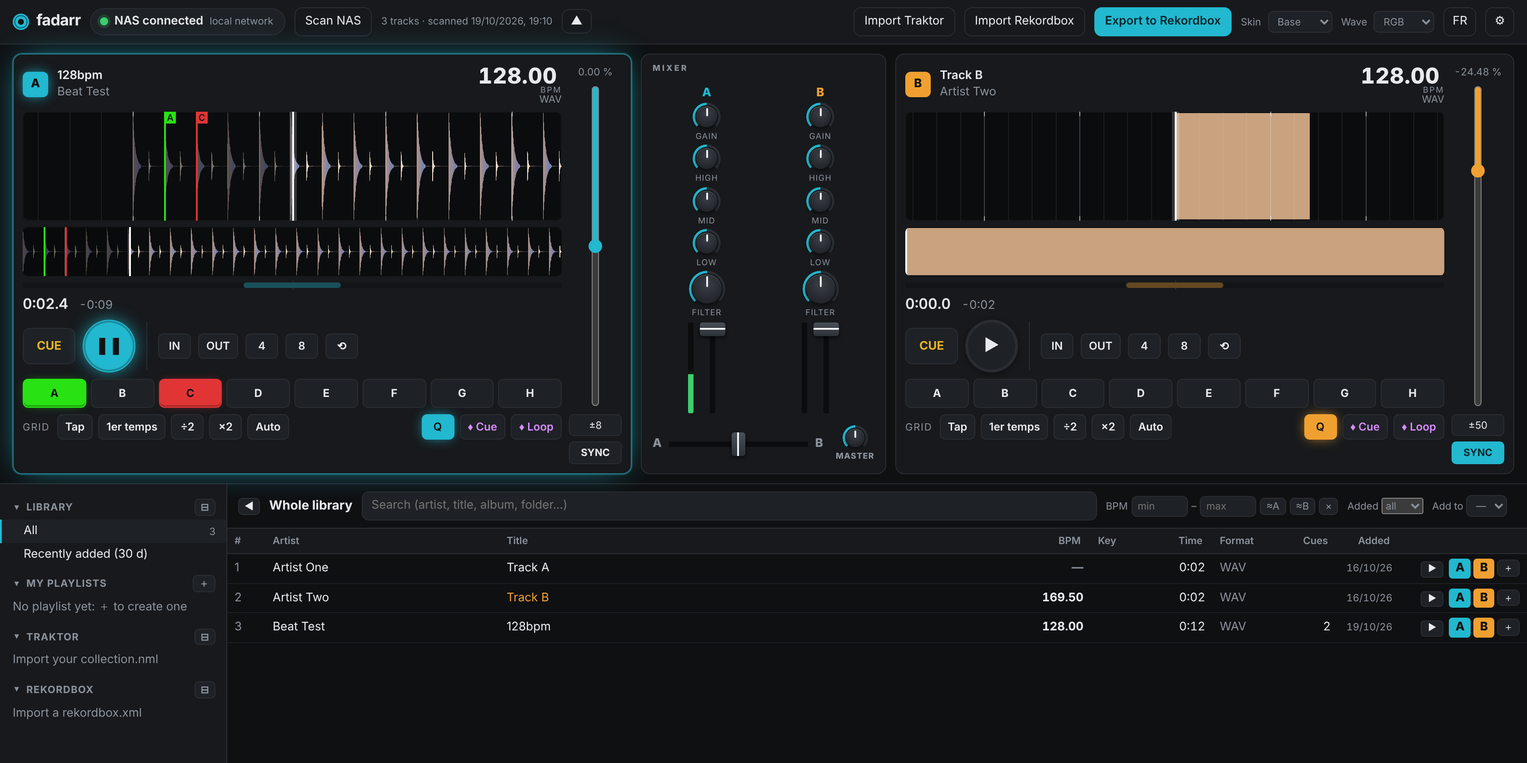
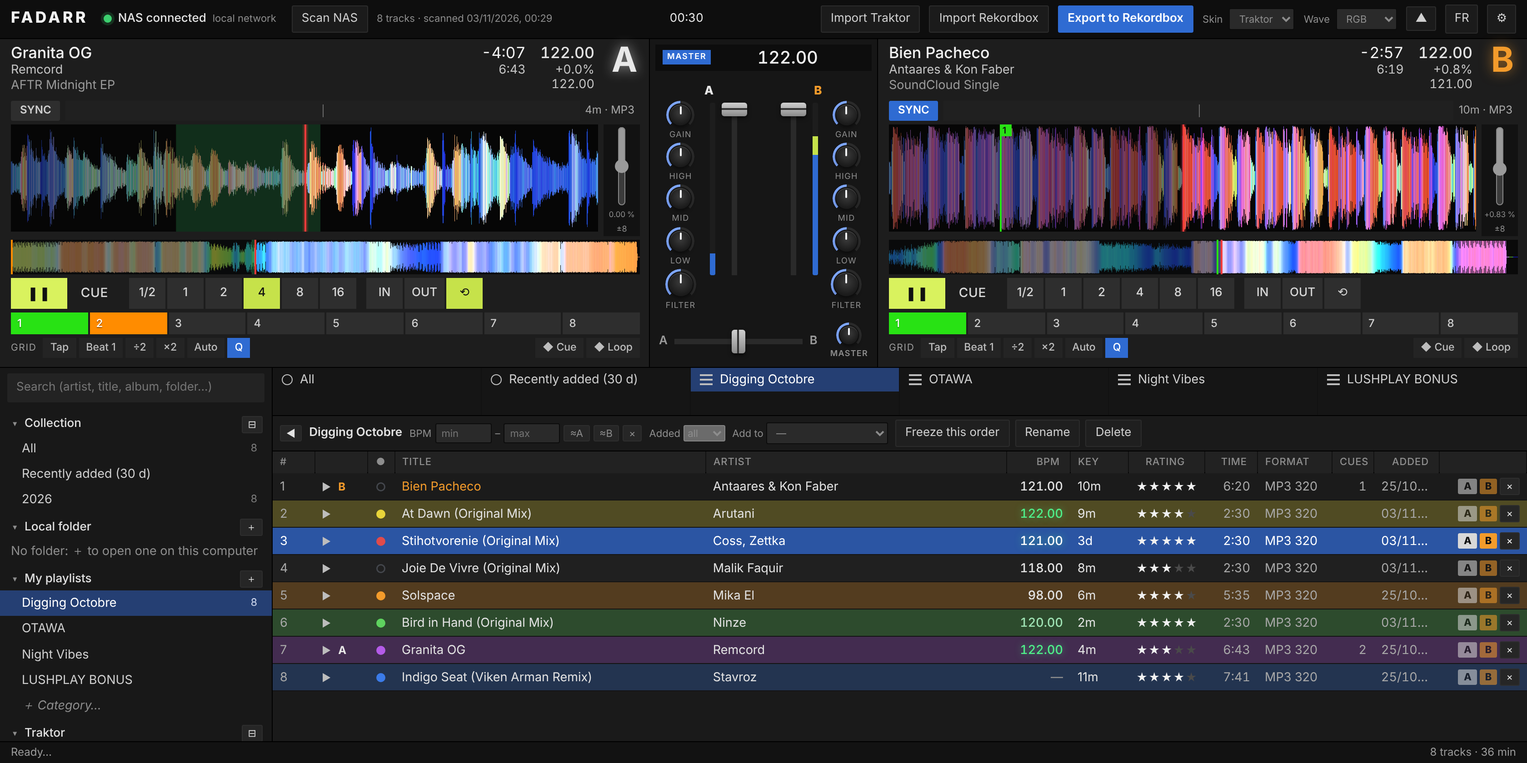
v0.9.0 — Dossier local (en plus du NAS) + README et capture à jour
Claude-Session: https://claude.ai/code/session_01JRhxjUwib51qu579Lakuy5

diff --git a/public/app.js b/public/app.js
@@ -217,18 +217,25 @@
       this.status(t('Chargement…'));
       this.renderInfo();
       try {
-        const [full, res] = await Promise.all([
-          api('GET', `/api/track?path=${encodeURIComponent(track.path)}`),
-          fetch(`/api/audio?path=${encodeURIComponent(track.path)}`, { headers: { 'X-Lang': window.I18N.lang } })
-        ]);
-        if (!res.ok) { let msg = `Erreur ${res.status}`; try { msg = (await res.json()).error || msg; } catch (e) { /* texte */ } throw new Error(msg); }
-        const data = await res.arrayBuffer();
+        let full, data;
+        if (local.isLocal(track.path)) { // dossier de cet ordinateur : lu directement dans le navigateur
+          full = local.full(track.path);
+          data = await local.arrayBuffer(track.path);
+        } else {
+          const [fullR, res] = await Promise.all([
+            api('GET', `/api/track?path=${encodeURIComponent(track.path)}`),
+            fetch(`/api/audio?path=${encodeURIComponent(track.path)}`, { headers: { 'X-Lang': window.I18N.lang } })
+          ]);
+          if (!res.ok) { let msg = `Erreur ${res.status}`; try { msg = (await res.json()).error || msg; } catch (e) { /* texte */ } throw new Error(msg); }
+          full = fullR; data = await res.arrayBuffer();
+        }
         if (token !== this.loading) return;
         this.status(t('Décodage…'));
         const buf = await ctx.decodeAudioData(data);
         if (token !== this.loading) return;
         this.track = full;
         this.buffer = buf;
+        if (local.isLocal(full.path) && !full.duration) { full.duration = buf.duration; local.patch(full.path, { duration: Math.round(buf.duration) }); library.paintWindow(); }
         this.cues = full.cues || [];
         const firstHot = this.cues.find((c) => c.kind !== 'loop' && c.kind === 'memory') || null;
         this.mainCue = firstHot ? firstHot.start : 0;
@@ -335,7 +342,8 @@
         restore();
         if (path && Number.isFinite(v) && v >= 40 && v <= 250) {
           try {
-            await api('PUT', '/api/track/meta', { path, bpm: v });
+            if (local.isLocal(path)) local.patch(path, { bpm: Math.round(v * 100) / 100 });
+            else await api('PUT', '/api/track/meta', { path, bpm: v });
             if (this.track && this.track.path === path) { this.track.bpm = Math.round(v * 100) / 100; this.renderInfo(); }
             library.updateBpm(path, Math.round(v * 100) / 100);
             if (refDeck === this) library.renderRows();
@@ -354,7 +362,8 @@
       if (!this.track) return;
       const path = this.track.path;
       try {
-        await api('PUT', '/api/track/meta', { path, ...patch, ...(auto ? { auto: true } : {}) });
+        if (local.isLocal(path)) local.patch(path, patch);
+        else await api('PUT', '/api/track/meta', { path, ...patch, ...(auto ? { auto: true } : {}) });
         if (this.track && this.track.path === path) {
           if (patch.bpm != null) this.track.bpm = Math.round(patch.bpm * 100) / 100;
           if ('gridStart' in patch) this.track.gridStart = patch.gridStart;
@@ -481,6 +490,7 @@
       this.renderPads(); this.renderMem();
       if (!this.track) return;
       const path = this.track.path;
+      if (local.isLocal(path)) { local.patch(path, { cues: this.cues }); library.updateCount(path, this.cues.length); return; }
       clearTimeout(this.saveTimer);
       this.saveTimer = setTimeout(async () => {
         try {
@@ -1385,7 +1395,7 @@
     },
 
     markSel() {
-      const key = this.view.type === 'all' ? 'all' : this.view.type === 'recent' ? 'recent' : this.view.type === 'folder' ? `folder:${this.view.path}` : `pl:${this.view.id}`;
+      const key = this.view.type === 'all' ? 'all' : this.view.type === 'recent' ? 'recent' : this.view.type === 'folder' ? `folder:${this.view.path}` : this.view.type === 'local' ? `localv:${this.view.path}` : `pl:${this.view.id}`;
       $$('.node[data-key]').forEach((n) => n.classList.toggle('sel', n.dataset.key === key));
       this._curKey = key; this.renderFavs();
       this.revealSel(key);
@@ -1422,6 +1432,10 @@
             await api('DELETE', `/api/playlists/${p.id}`); await this.loadPlaylists(); this.show({ type: 'all' });
           }));
         }
+      } else if (view.type === 'local') {
+        $('#list-title').textContent = view.path ? `${local.name} / ${view.path}` : t('{name} (sur cet ordinateur)', { name: local.name || t('Dossier local') });
+        this.rows = local.rows(view.path, q);
+        if (local.tracks.length) actions.appendChild(button(t('Fermer ce dossier'), () => local.close()));
       } else {
         $('#list-title').textContent = view.type === 'folder' ? view.path : view.type === 'recent' ? t('Ajouts récents (30 jours)') : t('Toute la bibliothèque');
         const params = new URLSearchParams({ q });
@@ -1494,7 +1508,7 @@
         + `<td class="dim">${esc(t.format || '')}${t.bitrate && !/WAV|AIFF|FLAC/i.test(t.format) ? ` ${t.bitrate}` : ''}</td><td class="r dim">${t.cueCount || ''}</td>`
         + `<td class="r dim" title="${t.added ? new Date(t.added).toLocaleString(window.I18N.locale) : ''}">${shortDate(t.added)}</td>`
         + `<td class="act">${t.missing ? `<span class="muted small">${T('absent du NAS')}</span>` : `<button type="button" class="ld a" data-l="A" title="${T('Charger dans A')}">A</button><button type="button" class="ld b" data-l="B" title="${T('Charger dans B')}">B</button>`}`
-        + `${this._editable ? `<button type="button" class="mini" data-x="1" title="${T('Retirer de la playlist')}">×</button>` : `<button type="button" class="mini" data-add="1" title="${T('Ajouter à la playlist choisie (« Ajouter à »)')}">＋</button>`}</td>`
+        + `${t.local ? '' : this._editable ? `<button type="button" class="mini" data-x="1" title="${T('Retirer de la playlist')}">×</button>` : `<button type="button" class="mini" data-add="1" title="${T('Ajouter à la playlist choisie (« Ajouter à »)')}">＋</button>`}</td>`
         + `<td class="vcls" hidden>${cls}</td>`;
     },
 
@@ -1635,6 +1649,7 @@
       tr.rating = rating;
       this.paintWindow();
       for (const d of Object.values(decks)) if (d.track && d.track.path === tr.path) { d.track.rating = rating; }
+      if (local.isLocal(tr.path)) { local.patch(tr.path, { rating }); return; }
       try { await api('PUT', '/api/track/meta', { path: tr.path, rating }); } catch (e) { toast(e.message, 'error'); }
     },
 
@@ -1643,6 +1658,7 @@
       tr.color = color;
       this.paintWindow();
       for (const d of Object.values(decks)) if (d.track && d.track.path === tr.path) { d.track.color = color; }
+      if (local.isLocal(tr.path)) { local.patch(tr.path, { color }); return; }
       try { await api('PUT', '/api/track/meta', { path: tr.path, color }); } catch (e) { toast(e.message, 'error'); }
     },
 
@@ -1659,6 +1675,11 @@
     openColorMenu(ev, tr) { contextMenu(ev, this.colorItems(tr)); },
 
     async addTo(id, paths) {
+      if (paths.some((p) => local.isLocal(p))) {
+        paths = paths.filter((p) => !local.isLocal(p));
+        toast(t('Un morceau d’un dossier local ne peut pas aller dans une playlist : il n’est pas sur le NAS.'), 'error');
+        if (!paths.length) return;
+      }
       try {
         const p = await api('GET', `/api/playlists/${id}`);
         const tracks = p.tracks.concat(paths.filter((x) => !p.tracks.includes(x)));
@@ -1672,13 +1693,122 @@
     updateCount(path, n) {
       const row = this.rows.find((r) => r.path === path); if (row) row.cueCount = n;
       const vr = (this._vrows || []).find((r) => r.path === path); if (vr) vr.cueCount = n;
-      const tr = $(`#tracks tr[data-path="${CSS.escape(path)}"] td:nth-child(8)`); if (tr) tr.textContent = n || '';
+      const tr = $(`#tracks tr[data-path="${CSS.escape(path)}"] td:nth-child(11)`); if (tr) tr.textContent = n || ''; // colonne Cues
     },
 
     updateBpm(path, bpm) {
       const row = this.rows.find((r) => r.path === path); if (row) row.bpm = bpm;
       const vr = (this._vrows || []).find((r) => r.path === path); if (vr) vr.bpm = bpm;
     }
+  };
+
+  // ===========================================================================
+  // DOSSIER LOCAL : jouer des morceaux d'un dossier de CET ordinateur, sans rien envoyer au serveur.
+  // Les fichiers sont lus dans le navigateur ; BPM, grille, cues, note et couleur sont gardés dans ce navigateur
+  // (localStorage), pas dans fadarr. Le NAS reste la bibliothèque principale.
+  // ===========================================================================
+  const LOCAL_AUDIO = /\.(mp3|wav|aiff?|flac|m4a|aac|ogg|opus)$/i;
+
+  /** AIFF -> WAV (mêmes échantillons, sans perte) : Chrome et Firefox ne décodent pas l'AIFF. Gère AIFF et AIFF-C non compressé. */
+  function aiffToWav(ab) {
+    const v = new DataView(ab);
+    const id = (o) => String.fromCharCode(v.getUint8(o), v.getUint8(o + 1), v.getUint8(o + 2), v.getUint8(o + 3));
+    if (id(0) !== 'FORM' || !['AIFF', 'AIFC'].includes(id(8))) throw new Error(window.I18N.t('Fichier AIFF illisible.'));
+    let ch = 0, frames = 0, bits = 0, rate = 0, little = false, data = -1;
+    for (let o = 12; o + 8 <= v.byteLength;) {
+      const cid = id(o); const size = v.getUint32(o + 4); const p = o + 8;
+      if (cid === 'COMM') {
+        ch = v.getUint16(p); frames = v.getUint32(p + 2); bits = v.getUint16(p + 6);
+        const exp = v.getUint16(p + 8) & 0x7fff; const hi = v.getUint32(p + 10); const lo = v.getUint32(p + 14);
+        rate = Math.round((hi * 4294967296 + lo) * Math.pow(2, exp - 16383 - 63));
+        if (id(8) === 'AIFC' && size >= 22) {
+          const comp = id(p + 18);
+          if (comp === 'sowt') little = true; else if (comp !== 'NONE' && comp !== 'twos') throw new Error(window.I18N.t('AIFF compressé non pris en charge ({c}).', { c: comp }));
+        }
+      } else if (cid === 'SSND') data = p + 8 + v.getUint32(p);
+      o = p + size + (size % 2);
+    }
+    if (!ch || !rate || data < 0 || ![8, 16, 24, 32].includes(bits)) throw new Error(window.I18N.t('Fichier AIFF illisible.'));
+    const bps = bits / 8; const len = Math.min(frames * ch * bps, v.byteLength - data);
+    const out = new ArrayBuffer(44 + len); const w = new DataView(out); const src = new Uint8Array(ab, data, len); const dst = new Uint8Array(out, 44);
+    const str = (o, t) => { for (let i = 0; i < 4; i++) w.setUint8(o + i, t.charCodeAt(i)); };
+    str(0, 'RIFF'); w.setUint32(4, 36 + len, true); str(8, 'WAVE'); str(12, 'fmt '); w.setUint32(16, 16, true);
+    w.setUint16(20, 1, true); w.setUint16(22, ch, true); w.setUint32(24, rate, true); w.setUint32(28, rate * ch * bps, true);
+    w.setUint16(32, ch * bps, true); w.setUint16(34, bits, true); str(36, 'data'); w.setUint32(40, len, true);
+    if (bps === 1) for (let i = 0; i < len; i++) dst[i] = (src[i] + 128) & 255; // AIFF 8 bits signé -> WAV 8 bits non signé
+    else if (little) dst.set(src);
+    else for (let i = 0; i < len; i += bps) for (let b = 0; b < bps; b++) dst[i + b] = src[i + bps - 1 - b]; // gros-boutiste -> petit-boutiste
+    return out;
+  }
+
+  const local = {
+    name: '', files: new Map(), tracks: [],
+    meta: (() => { try { return JSON.parse(localStorage.getItem('fadarr-local-meta') || '{}') || {}; } catch (e) { return {}; } })(),
+    isLocal(p) { return String(p || '').startsWith('local:'); },
+    patch(path, patch) {
+      this.meta[path] = { ...(this.meta[path] || {}), ...patch };
+      try { localStorage.setItem('fadarr-local-meta', JSON.stringify(this.meta)); } catch (e) { toast(t('Stockage du navigateur plein : réglage non gardé.'), 'error'); }
+      const tr = this.tracks.find((x) => x.path === path);
+      if (tr) Object.assign(tr, patch, patch.cues ? { cueCount: patch.cues.length } : {});
+    },
+    /** « 01. Artiste - Titre (Mix).aiff » -> { artist, title } */
+    parseName(rel) {
+      const base = rel.split('/').pop().replace(/\.[^.]+$/, '').replace(/^\s*\d{1,3}\s*[-._)]\s*/, '');
+      const i = base.indexOf(' - ');
+      return i > 0 ? { artist: base.slice(0, i).trim(), title: base.slice(i + 3).trim() } : { artist: '', title: base.trim() };
+    },
+    load(fileList) {
+      const list = [...fileList].filter((f) => LOCAL_AUDIO.test(f.name) && !f.name.startsWith('._'));
+      if (!list.length) { toast(t('Aucun fichier audio dans ce dossier.'), 'error'); return; }
+      this.files = new Map(); this.tracks = [];
+      for (const f of list) {
+        const rel = f.webkitRelativePath || f.name;
+        const parts = rel.split('/'); this.name = parts.length > 1 ? parts[0] : t('Dossier local');
+        const path = `local:${rel}`;
+        const m = this.meta[path] || {};
+        const ext = (f.name.match(/\.([^.]+)$/) || [, ''])[1].toUpperCase();
+        this.files.set(path, f);
+        this.tracks.push({
+          path, local: true, folder: parts.slice(1, -1).join('/'), ...this.parseName(rel), album: '', format: ext === 'AIF' ? 'AIFF' : ext, bitrate: null,
+          duration: m.duration || null, bpm: m.bpm || null, key: m.key || '', gridStart: m.gridStart ?? null, rating: m.rating || 0, color: m.color || '',
+          cueCount: (m.cues || []).length, added: f.lastModified || null
+        });
+      }
+      this.tracks.sort((a, b) => `${a.artist} ${a.title}`.localeCompare(`${b.artist} ${b.title}`, undefined, { sensitivity: 'base' }));
+      this.renderTree();
+      library.show({ type: 'local', path: '' });
+      toast(t('{n} morceaux chargés depuis « {name} » (lus sur cet ordinateur, rien n’est envoyé au serveur).', { n: this.tracks.length, name: this.name }));
+    },
+    close() {
+      this.files = new Map(); this.tracks = []; this.name = '';
+      this.renderTree();
+      if (library.view && library.view.type === 'local') library.show({ type: 'all' });
+    },
+    renderTree() {
+      const box = $('#local-tree'); if (!box) return;
+      if (!this.tracks.length) { box.innerHTML = `<div class="node fold muted">${esc(t('Aucun dossier : ＋ pour en ouvrir un sur cet ordinateur'))}</div>`; return; }
+      const root = { key: 'localv:', label: this.name, count: this.tracks.length, children: [], select: () => library.show({ type: 'local', path: '' }),
+        menu: [{ label: t('Fermer ce dossier'), fn: () => this.close() }, { label: t('Ouvrir un autre dossier…'), fn: () => this.pick() }] };
+      const byPath = new Map(); const counts = new Map();
+      for (const tr of this.tracks) { const parts = tr.folder ? tr.folder.split('/') : []; for (let i = 1; i <= parts.length; i++) { const p = parts.slice(0, i).join('/'); counts.set(p, (counts.get(p) || 0) + 1); } }
+      for (const p of [...counts.keys()].sort()) {
+        const node = { key: `localv:${p}`, label: p.split('/').pop(), count: counts.get(p), children: [], select: () => library.show({ type: 'local', path: p }) };
+        byPath.set(p, node);
+        (byPath.get(p.split('/').slice(0, -1).join('/')) || root).children.push(node);
+      }
+      library.renderTree(box, [root]);
+      library.markSel();
+    },
+    pick() { const inp = $('#local-input'); inp.value = ''; inp.click(); },
+    rows(folder, q) {
+      const words = q.toLowerCase().split(/\s+/).filter(Boolean);
+      return this.tracks.filter((tr) => (!folder || tr.folder === folder || tr.folder.startsWith(`${folder}/`))
+        && (!words.length || words.every((w) => `${tr.artist} ${tr.title} ${tr.folder}`.toLowerCase().includes(w))));
+    },
+    full(path) { const tr = this.tracks.find((x) => x.path === path) || {}; const m = this.meta[path] || {}; return { ...tr, ...m, cues: m.cues || [], gridStart: m.gridStart ?? null }; },
+    file(path) { const f = this.files.get(path); if (!f) throw new Error(t('Fichier local introuvable : rouvre le dossier.')); return f; },
+    async arrayBuffer(path) { const ab = await this.file(path).arrayBuffer(); return /\.aiff?$/i.test(path) ? aiffToWav(ab) : ab; },
+    async url(path) { const f = this.file(path); return URL.createObjectURL(/\.aiff?$/i.test(path) ? new Blob([aiffToWav(await f.arrayBuffer())], { type: 'audio/wav' }) : f); }
   };
 
   // ===========================================================================
@@ -1691,15 +1821,19 @@
       this.stop();
       if (!this.el) { this.el = new Audio(); this.el.preload = 'auto'; this.el.addEventListener('ended', () => this.stop()); }
       this.path = t.path;
-      this.el.src = `/api/audio?path=${encodeURIComponent(t.path)}`;
+      if (this._url) { URL.revokeObjectURL(this._url); this._url = null; }
+      if (local.isLocal(t.path)) {
+        local.url(t.path).then((u) => { if (this.path !== t.path) { URL.revokeObjectURL(u); return; } this._url = u; this.el.src = u; this.el.play().catch(() => { /* rien */ }); }).catch((e) => { toast(e.message, 'error'); this.stop(); });
+      } else this.el.src = `/api/audio?path=${encodeURIComponent(t.path)}`;
       this.el.volume = 0.85;
-      const seekable = !/\.aiff?$/i.test(t.path); // l'AIFF est converti à la volée : pas de saut possible
+      const seekable = local.isLocal(t.path) || !/\.aiff?$/i.test(t.path); // l'AIFF du NAS est converti à la volée : pas de saut possible
       this.el.onloadedmetadata = () => { if (seekable && Number.isFinite(this.el.duration)) this.el.currentTime = this.el.duration * 0.33; };
-      this.el.play().catch((e) => { toast(window.I18N.t('Pré-écoute impossible : {msg}', { msg: e.message }), 'error'); this.stop(); });
+      if (!local.isLocal(t.path)) this.el.play().catch((e) => { toast(window.I18N.t('Pré-écoute impossible : {msg}', { msg: e.message }), 'error'); this.stop(); });
       library.renderRows();
     },
     stop() {
       if (this.el) { this.el.pause(); this.el.removeAttribute('src'); this.el.load(); }
+      if (this._url) { URL.revokeObjectURL(this._url); this._url = null; }
       const had = this.path; this.path = null;
       if (had) library.renderRows();
     }
@@ -1894,6 +2028,9 @@
     let sideHidden = false; try { sideHidden = localStorage.getItem('fadarr-side') === '1'; } catch (e) { /* rien */ }
     setSide(sideHidden);
     sideBtn.addEventListener('click', () => { const h = !document.body.classList.contains('no-side'); setSide(h); try { localStorage.setItem('fadarr-side', h ? '1' : '0'); } catch (e) { /* rien */ } });
+    $('#open-local').addEventListener('click', () => local.pick());
+    $('#local-input').addEventListener('change', (e) => { if (e.target.files && e.target.files.length) local.load(e.target.files); });
+    local.renderTree();
     $('#new-pl').addEventListener('click', async () => {
       const name = prompt(window.I18N.t('Nom de la nouvelle playlist :')); if (!name) return;
       try { const p = await api('POST', '/api/playlists', { name }); await library.loadPlaylists(); $('#target-pl').value = p.id; library.show({ type: 'playlist', id: p.id }); } catch (e) { toast(e.message, 'error'); }

diff --git a/public/i18n.js b/public/i18n.js
@@ -108,6 +108,18 @@
 
       // ---------- bibliothèque / library ----------
       'Bibliothèque': 'Library',
+      'Dossier local': 'Local folder',
+      "Ouvrir un dossier de cet ordinateur (les morceaux sont lus dans le navigateur, rien n'est envoyé au serveur)": 'Open a folder on this computer (tracks are read in the browser, nothing is sent to the server)',
+      'Aucun dossier : ＋ pour en ouvrir un sur cet ordinateur': 'No folder: ＋ to open one on this computer',
+      'Aucun fichier audio dans ce dossier.': 'No audio files in this folder.',
+      '{n} morceaux chargés depuis « {name} » (lus sur cet ordinateur, rien n’est envoyé au serveur).': '{n} tracks loaded from “{name}” (read on this computer, nothing is sent to the server).',
+      'Fermer ce dossier': 'Close this folder', 'Ouvrir un autre dossier…': 'Open another folder…',
+      '{name} (sur cet ordinateur)': '{name} (on this computer)',
+      'Fichier local introuvable : rouvre le dossier.': 'Local file not found: reopen the folder.',
+      'Fichier AIFF illisible.': 'Unreadable AIFF file.', 'AIFF compressé non pris en charge ({c}).': 'Compressed AIFF not supported ({c}).',
+      'Stockage du navigateur plein : réglage non gardé.': 'Browser storage full: setting not saved.',
+      'Un morceau d’un dossier local ne peut pas aller dans une playlist : il n’est pas sur le NAS.': 'A track from a local folder can’t go into a playlist: it isn’t on the NAS.',
+      '1er temps': 'Beat 1',
       'Collection': 'Collection', 'Note': 'Rating', 'Prêt…': 'Ready…', 'MASTER': 'MASTER',
       '{n} morceaux · {d}': '{n} tracks · {d}',
       'Ajouter aux favoris': 'Add to favorites', 'Retirer des favoris': 'Remove from favorites',

diff --git a/public/index.html b/public/index.html
@@ -69,6 +69,9 @@
     <div class="side-search"><input type="search" id="search" placeholder="Rechercher (artiste, titre, album, dossier…)" autocomplete="off"></div>
     <div class="side-head" data-sec="tree"><span class="sec"><span class="caret open">▸</span>Collection</span><button type="button" class="mini fold-all" data-target="tree" title="Tout replier">⊟</button></div>
     <div id="tree" class="tree"></div>
+    <div class="side-head" data-sec="local-tree"><span class="sec"><span class="caret open">▸</span>Dossier local</span><button type="button" id="open-local" class="mini" title="Ouvrir un dossier de cet ordinateur (les morceaux sont lus dans le navigateur, rien n'est envoyé au serveur)">＋</button></div>
+    <div id="local-tree" class="tree"></div>
+    <input type="file" id="local-input" webkitdirectory multiple hidden>
     <div class="side-head" data-sec="pl-mine"><span class="sec"><span class="caret open">▸</span>Mes playlists</span><button type="button" id="new-pl" class="mini" title="Nouvelle playlist">＋</button></div>
     <div id="pl-mine" class="tree"></div>
     <div class="side-head" data-sec="pl-traktor"><span class="sec"><span class="caret open">▸</span>Traktor</span><button type="button" class="mini fold-all" data-target="pl-traktor" title="Tout replier">⊟</button></div>

diff --git a/public/app.css b/public/app.css
@@ -522,9 +522,9 @@ body { font-family: "Helvetica Neue", Helvetica, Arial, system-ui, sans-serif; }
 canvas { border-radius: 0; background: #060606; }
 canvas.wave-zoom { height: 118px; box-shadow: none; }
 canvas.wave-over { height: 38px; background: #0a0a0a; }
-.deck-side { width: 34px; padding: 0; gap: 3px; background: #121212; }
+.deck-side { width: 40px; padding: 0; gap: 3px; background: #121212; }
 .deck-side .d-pitch { min-height: 0; height: 88px; flex: none; width: 22px; accent-color: #9a9a9a; }
-.deck-side .d-pitchval { font-size: 9px; }
+.deck-side .d-pitchval { font-size: 8.5px; white-space: nowrap; letter-spacing: -.02em; }
 .deck-side .d-range { font-size: 9px; padding: 1px 0; border: 0; background: transparent; color: var(--muted); }
 .deck-row.transport { gap: 3px; flex-wrap: nowrap; }
 .tbtn { height: 34px; width: auto; min-width: 54px; padding: 0 10px; border-radius: 0; border: 0; background: transparent; color: #d9d9d9; font-weight: 500; font-size: 14px; letter-spacing: .03em; }

diff --git a/CHANGELOG.md b/CHANGELOG.md
@@ -3,6 +3,20 @@
 Toutes les versions notables de fadarr. Format inspiré de [Keep a Changelog](https://keepachangelog.com/fr/),
 versions en [SemVer](https://semver.org/lang/fr/). / All notable changes; English summary under each entry.
 
+## [0.9.0] — 2026-11-03
+### Ajouté
+- **Dossier local** (en plus du NAS) : section « Dossier local » dans l'arbre, bouton ＋ pour ouvrir un dossier de l'ordinateur sur lequel tu es. Les morceaux sont lus directement dans le navigateur (rien n'est envoyé au serveur), avec sous-dossiers, recherche, decks, pré-écoute, détection de BPM / grille, cues, note et couleur — gardés dans ce navigateur. AIFF lu aussi dans Chrome (converti à la volée en WAV, sans perte). Les morceaux locaux ne vont pas dans les playlists (elles pointent vers le NAS).
+### Corrigé
+- Fader de tempo : la valeur ne passe plus à la ligne (decks de même hauteur). Compteur de cues mis à jour dans la bonne colonne. « 1er temps » traduit en anglais.
+### Documentation
+- README / LISEZMOI à jour (interface façon Traktor, favoris, dossier local) et nouvelle capture d'écran.
+- *EN: local folder support (open a folder from this computer; tracks are read in the browser, nothing uploaded; AIFF decoded in Chrome too; cues/BPM/rating/colour kept in the browser); tempo-fader overflow fix; updated README and screenshot.*
+
+## [0.8.1] — 2026-10-25
+### Corrigé
+- **Vue d'ensemble de la forme d'onde en couleurs** (elle tirait sur le violet) : la couleur suit maintenant l'énergie moyenne de chaque bande par passage, comparée au reste du morceau. Les passages riches en graves virent à l'orange / rouge, les breaks au vert / jaune, les passages brillants au bleu / blanc ; les couleurs sont lissées par plages, comme la vue d'ensemble de Traktor.
+- *EN: colored waveform overview (no more purple): color follows each band's average energy per section relative to the track, smoothed into Traktor-like color zones.*
+
 ## [0.8.0] — 2026-10-25
 Interface façon Traktor Pro (disposition et codes visuels seulement : aucun logo ni élément graphique de Native Instruments ; fadarr reste MIT).
 ### Modifié
@@ -96,6 +110,9 @@ Première version publiable (GitHub, MIT).
 - Interface **français / anglais**, prête pour d'autres langues.
 - *EN: first public release — two decks, mixer, colored waveforms, NAS library, Traktor import, Rekordbox XML export, FR/EN.*
 
+[0.9.0]: https://github.com/mauvestudio/fadarr/releases/tag/v0.9.0
+[0.8.1]: https://github.com/mauvestudio/fadarr/releases/tag/v0.8.1
+[0.8.0]: https://github.com/mauvestudio/fadarr/releases/tag/v0.8.0
 [0.5.0]: https://github.com/mauvestudio/fadarr/releases/tag/v0.5.0
 [0.4.0]: https://github.com/mauvestudio/fadarr/releases/tag/v0.4.0
 [0.3.0]: https://github.com/mauvestudio/fadarr/releases/tag/v0.3.0

diff --git a/LISEZMOI.md b/LISEZMOI.md
@@ -15,13 +15,17 @@ fadarr est une petite appli web auto-hébergée (Node.js, sans framework ni comp
 
 ## Fonctions
 
-- **Deux decks** : formes d'onde colorées par fréquences (vue d'ensemble et zoom avec grille de tempo), lecture / CUE, tempo ±8 / ±16 / ±50 %,
-  un gros BPM sur lequel on clique pour le régler, un bouton **SYNC** qui s'allume quand les tempos sont calés,
-  indicateur de phase, 8 hot cues (et hot loops), loops (IN/OUT, 4 ou 8 temps), memory cues et memory loops, quantize.
-- **Disposition inspirée de Traktor**, à ta main : replie les decks ou le panneau de gauche pour te concentrer sur la recherche ou sur le mix.
-- **Mixeur** : gain, EQ 3 bandes, filtre, faders de voie, crossfader, master ; trois skins (*Base*, *Analog*, *Rotary*).
+- **Deux decks façon Traktor** : en-tête sur trois lignes (titre / artiste / album), temps restant et durée, BPM, % de tempo et BPM d'origine ;
+  formes d'onde RGB en couleurs (vue d'ensemble et zoom avec grille, tête de lecture rouge), fader de tempo à côté de l'onde, SYNC et indicateur de phase,
+  loops de 1/2 à 16 temps, IN/OUT, 8 hot cues numérotés (hot loops aussi), memory cues et loops, quantize.
+- **Interface familière** : thème sombre inspiré de Traktor (aucun logo ni élément graphique de Native Instruments) : arbre avec recherche en haut,
+  grille de **favoris** 2 × 6, lignes colorées par morceau, sélection bleue, barre d'état. Replie les decks ou le panneau quand il te faut de la place.
+- **Mixeur** : tempo maître, gain, EQ 3 bandes, filtre, faders de voie, crossfader, master ; trois skins (*Traktor*, *Analog*, *Rotary*).
+- **Dossier local** : ouvre un dossier de l'ordinateur sur lequel tu es (en plus du NAS) : les morceaux sont lus dans le navigateur, rien n'est envoyé ;
+  WAV, AIFF, MP3, FLAC, M4A. BPM, grille, cues, note et couleur de ces morceaux sont gardés dans ce navigateur.
 - **Bibliothèque** : analyse du dossier musique (seuls les fichiers nouveaux ou modifiés sont relus), arborescence repliable,
-  tri sur toutes les colonnes, filtre de BPM, tonalité en notation musicale / Camelot / Open Key.
+  tri par colonne, filtres BPM et date d'ajout, tonalité musicale / Camelot / Open Key (en couleur), notes en étoiles au clic,
+  clic droit pour les couleurs Traktor, figer un tri comme ordre de playlist.
 - **Pensé pour préparer un set** : dès qu'un morceau est chargé, la liste met en lumière ce qui s'enchaîne avec lui
   (tonalité compatible sur la roue Camelot, BPM à ±3 % ou demi / double tempo) ; pré-écoute en un clic sans charger de deck.
 - **Import Traktor ou Rekordbox** : lit un `collection.nml` Traktor ou un `rekordbox.xml` Rekordbox — playlists et dossiers,

diff --git a/README.md b/README.md
@@ -15,13 +15,17 @@ fadarr is a small self-hosted web app (Node.js, no framework, no build step). It
 
 ## Features
 
-- **Two decks** — frequency-coloured waveforms (overview + zoom with beat grid), play / CUE, tempo ±8 / ±16 / ±50 %,
-  a large BPM read-out you can click to set, a **SYNC** button that lights up when the tempos match,
-  beat-phase meter, 8 hot cues (hot loops too), loops (IN/OUT, 4 or 8 beats), memory cues and memory loops, quantize.
-- **Traktor-inspired layout**, your way — collapse the decks or the side panel to focus on browsing or on mixing.
-- **Mixer** — gain, 3-band EQ, filter, channel faders, crossfader, master; three skins (*Base*, *Analog*, *Rotary*).
+- **Two decks, Traktor-style** — three-line header (title / artist / album), remaining and total time, BPM, tempo % and original BPM;
+  full-colour RGB waveforms (overview + zoom with beat grid, red playhead), tempo fader next to the waveform, SYNC and beat-phase meter,
+  loop sizes 1/2 to 16 beats, IN/OUT, 8 numbered hot cues (hot loops too), memory cues and loops, quantize.
+- **Familiar layout** — dark Traktor-like interface (no Native Instruments logos or artwork): collection tree with search on top,
+  a 2×6 **favourites** grid, full-row track colours, blue selection, status bar. Collapse the decks or the side panel when you need room.
+- **Mixer** — master tempo, gain, 3-band EQ, filter, channel faders, crossfader, master; three skins (*Traktor*, *Analog*, *Rotary*).
+- **Local folder** — open a folder from the computer you're on (alongside the NAS): tracks are read in the browser, nothing is uploaded;
+  WAV, AIFF, MP3, FLAC, M4A. BPM, grid, cues, rating and colour for those tracks are kept in that browser.
 - **Library** — scans your music folder (only new or changed files are re-read), collapsible folder tree,
-  sort by any column, BPM range filter, key shown as musical / Camelot / Open Key.
+  sort by any column, BPM range and date-added filters, key shown as musical / Camelot / Open Key (colour-coded), click-to-rate stars,
+  right-click for Traktor colours, freeze a sorted order into a playlist.
 - **Built for set preparation** — once a track is loaded, the list highlights what mixes with it
   (Camelot-compatible key, BPM within 3 % or half/double tempo); one-click preview without loading a deck.
 - **Import from Traktor or Rekordbox** — read a Traktor `collection.nml` or a Rekordbox `rekordbox.xml`: playlists and folders,
